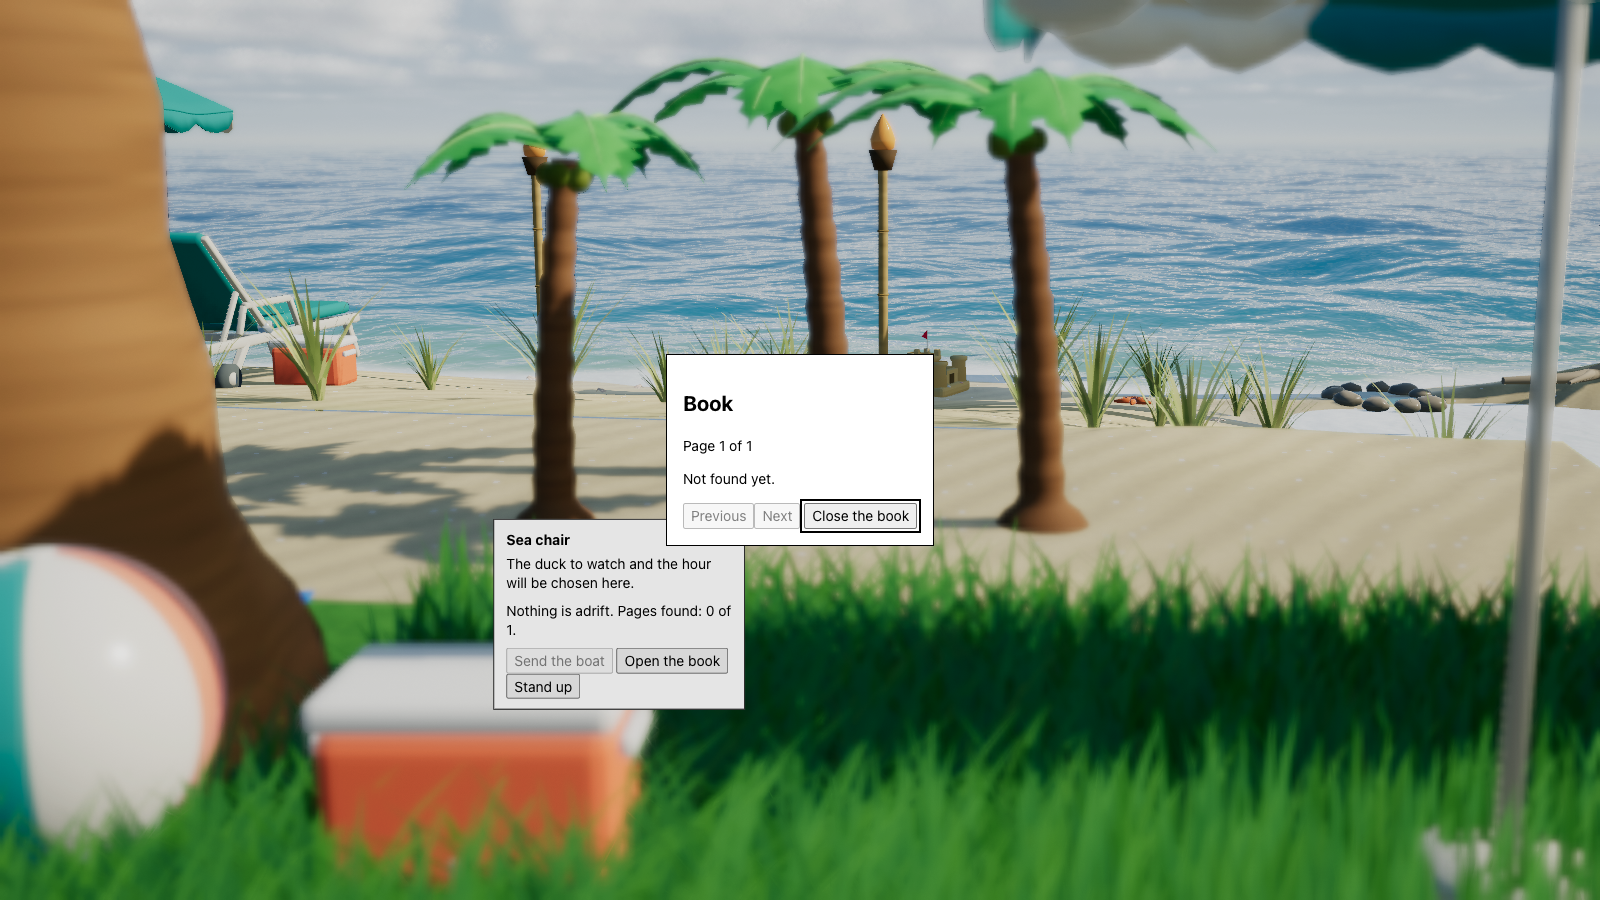
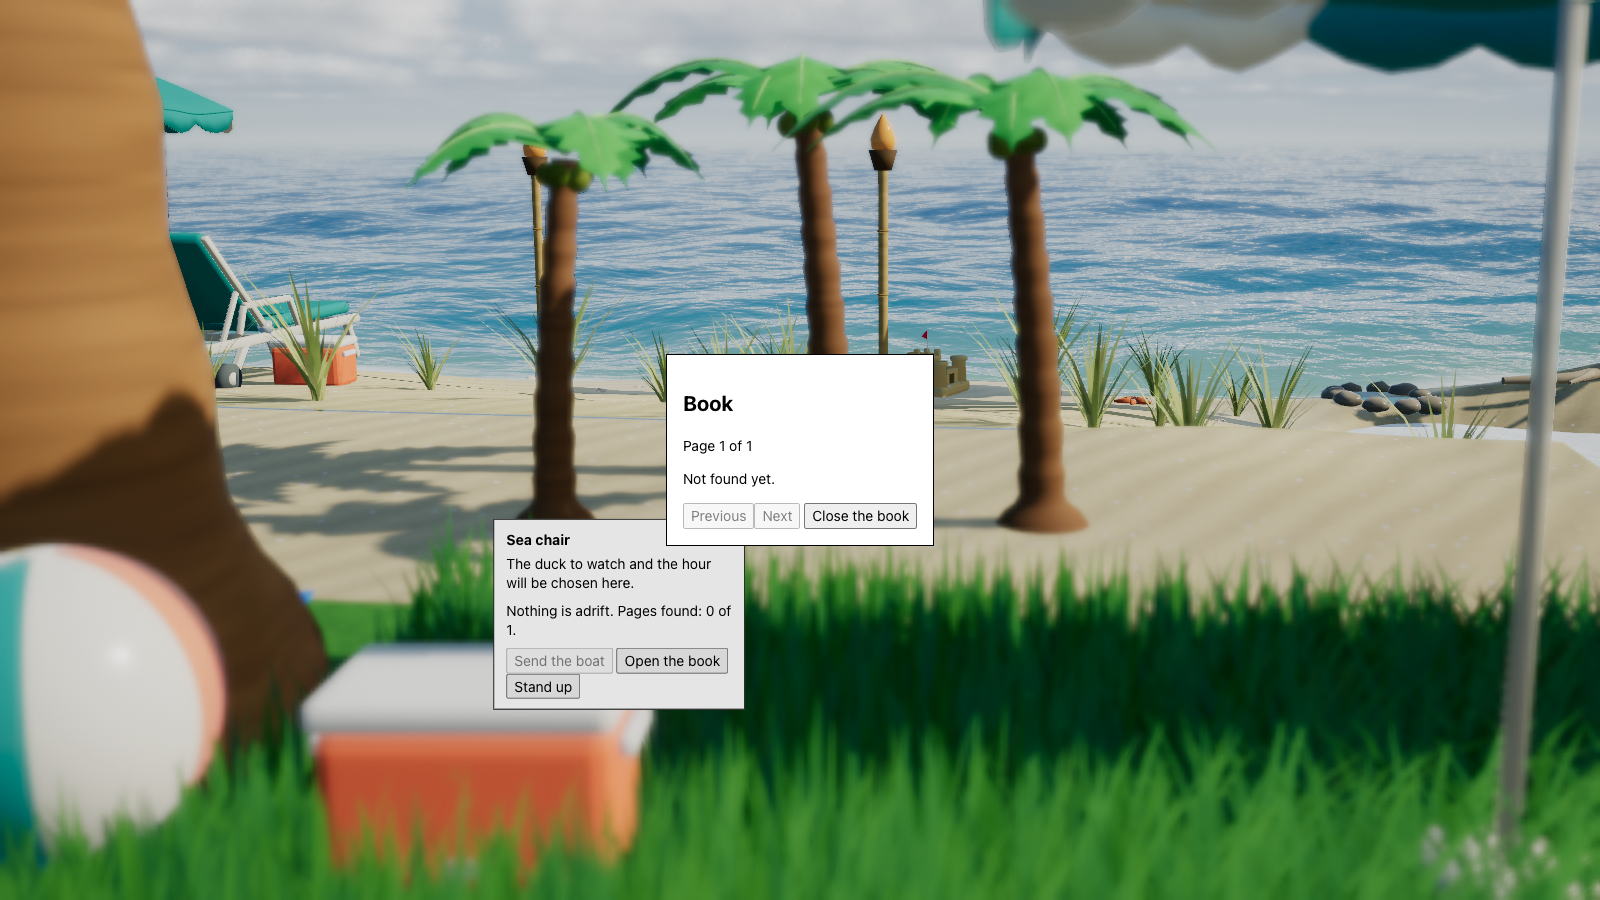
fix(rubber-duck-pool): story 003 review fixes from Sol
The book kept keys from the world only while focus was inside its
dialog. Tab past Close the book drops focus to the page body; W then
reached navigation.js, the player stood up and the book closed (seen on
the old build: the camera moved 0.6). While the book is open it now
takes every keydown in the window's capture phase, wherever focus is;
keyup still goes on, so a key held from the scene is let go. The seat
menu's Escape guard for the open book is no longer needed.

The pool-book drive pressed Enter with a synthetic event, which presses
no button. The probe gains real browser input for --eval scripts:
`await window.__input(steps)` sends keys, clicks and taps through CDP
Input.*. The drive now opens the book with a tap, walks the Tab order,
presses Enter, Space and clicks, checks W and R with focus Tabbed out
of the book, that nothing is written while nothing changes, and that
standing up closes the book. It fails on the old code and passes now,
at desktop and phone sizes.

diff --git a/.claude/skills/verify/drive/pool-book.js b/.claude/skills/verify/drive/pool-book.js
@@ -1,59 +1,87 @@
-// The book, by the player's own controls. Seated, Open the book shows one page per item of the fixed list: from an empty
-// store the first bottle's page is empty, Previous and Next stop at both ends, a world key pressed in the book moves
-// nothing, and Escape closes it and gives focus back to Open the book without standing up. The boat sent for the bottle
-// comes home while the book is open, and the page fills there; it is still filled when the book is opened again. The
-// hook seats the player and steps the world's clock; the presses are the player's. Start from an empty store.
-// window.__shot = 'empty' stops with the empty book open, for its screenshot; otherwise it ends with the filled book open.
+// The book, by the player's own input (the probe's window.__input: the browser's own taps, clicks and keys). Seated, a
+// tap on Open the book opens one page per item of the fixed list: from an empty store the first bottle's page is empty.
+// Tab and Shift+Tab walk Close the book, Next and Previous; Enter, Space and clicks at either end change nothing; nothing
+// is written to the page while nothing changes. W and R pressed in the book, or after a click on its backdrop (focus
+// leaves the book), move nothing. Escape closes only the book and gives focus back to Open the book; Enter and a click
+// open and close it too. The boat sent for the bottle comes home while the book is open and the page fills there.
+// Standing up with the book open closes it and leaves focus on nothing hidden; sitting again, the page is still filled.
+// The hook seats the player and steps the world's clock. Start from an empty store. window.__shot = 'empty' stops with
+// the empty book open, for its screenshot; otherwise it ends with the filled book open.
 (async () => {
   const h = window.__pool, W = h.world, $ = (s) => document.querySelector(s), wait = (ms) => new Promise((r) => setTimeout(r, ms))
   const fail = (m) => { throw new Error(m) }
   const frame = () => new Promise((r) => requestAnimationFrame(() => requestAnimationFrame(r)))
   const run = async (secs, done) => { for (let s = 0; s < secs && !done(); s++) { h.step(120); if (s % 5 === 4) await frame() } await frame(); return done() }
-  const key = (code, k) => document.activeElement.dispatchEvent(new KeyboardEvent('keydown', { code, key: k, bubbles: true, cancelable: true }))
+  const input = async (...steps) => { await window.__input(steps); await frame() }
+  const at = (el) => { const r = el.getBoundingClientRect(); return [r.x + r.width / 2, r.y + r.height / 2] }
   const named = (root, text) => [...root.querySelectorAll('button')].find((b) => b.textContent.trim() === text)
   const dlg = () => [...document.querySelectorAll('dialog')].find((d) => d.querySelector('h1, h2, h3')?.textContent.trim() === 'Book')
   const page = () => dlg().querySelector('[data-state]'), status = () => dlg().querySelector('[role="status"]').textContent.trim()
+  const focus = () => document.activeElement?.textContent.trim() || document.activeElement?.tagName
   const item = () => W.collectibles.list.find((c) => c.id === 'bottle-first')
   const out = []
   await wait(500)
   if (h.book.found('bottle-first')) fail('the book already holds the first bottle: run this from an empty store')
   h.sit(1); await wait(1600)   // the sea chair
-  const opener = $('.seat-ui .seat-book')
+  const opener = $('.seat-ui .seat-book'), panel = $('.seat-ui dialog')
   if (!opener || opener.textContent.trim() !== 'Open the book') fail('the seated menu has no Open the book')
 
-  opener.focus(); opener.click(); await frame()
+  await input({ tap: at(opener) })
   const d = dlg()
-  if (!d?.open || !d.matches(':modal')) fail('Open the book did not open the book as a modal dialog')
-  if (document.activeElement !== named(d, 'Close the book')) fail(`focus is not on Close the book: "${document.activeElement.textContent}"`)
-  const prev = named(d, 'Previous'), next = named(d, 'Next')
+  if (!d?.open || !d.matches(':modal')) fail('a tap on Open the book did not open the book as a modal dialog')
+  const prev = named(d, 'Previous'), next = named(d, 'Next'), close = named(d, 'Close the book')
+  if (document.activeElement !== close) fail(`focus is not on Close the book: "${focus()}"`)
+  await input({ key: 'Tab', shift: true }); const second = document.activeElement
+  await input({ key: 'Tab', shift: true }); const third = document.activeElement
+  if (second !== next || third !== prev) fail(`Shift+Tab from Close the book went to "${second.textContent}", then "${third.textContent}"`)
   if (!/Page 1 of 1/.test(status()) || page().dataset.state !== 'empty' || /First bottle/.test(page().textContent)) fail(`not one empty page: "${status()}", ${page().dataset.state}, "${page().textContent}"`)
   if (prev.getAttribute('aria-disabled') !== 'true' || next.getAttribute('aria-disabled') !== 'true') fail('Previous and Next are not both at an end on the one page')
-  prev.click(); next.click(); next.focus(); key('Enter', 'Enter'); await frame()
-  if (h.bookView.index !== 0 || !/Page 1 of 1/.test(status())) fail(`a press at an end moved the book: ${h.bookView.index}, "${status()}"`)
-  out.push({ by: 'opened', status: status(), state: page().dataset.state, text: page().textContent.trim() })
+  await input({ key: 'Enter' }, { key: 'Tab' }, { key: ' ' }, { click: at(prev) }, { click: at(next) })
+  if (h.bookView.index !== 0 || !/Page 1 of 1/.test(status()) || !d.open) fail(`a press at an end moved or closed the book: ${h.bookView.index}, "${status()}", open ${d.open}`)
+  let writes = 0; const watch = new MutationObserver((r) => { writes += r.length })
+  watch.observe(d, { subtree: true, childList: true, attributes: true, characterData: true })
+  for (let i = 0; i < 10; i++) await frame()
+  watch.disconnect()
+  if (writes) fail(`the open book was written ${writes} times while nothing changed`)
+  out.push({ by: 'tap', status: status(), state: page().dataset.state, text: page().textContent.trim() })
 
-  const eye = h.cam.target.slice()
-  named(d, 'Close the book').focus(); key('KeyW', 'w'); await wait(400)
-  document.activeElement.dispatchEvent(new KeyboardEvent('keyup', { code: 'KeyW', key: 'w', bubbles: true })); await frame()
-  if (h.seating.state.phase !== 'seated' || Math.hypot(...h.cam.target.map((v, i) => v - eye[i])) > 1e-6) fail('W pressed in the book reached the world')
+  const eye = h.cam.target.slice(), still = () => h.seating.state.phase === 'seated' && d.open && Math.hypot(...h.cam.target.map((v, i) => v - eye[i])) < 1e-6
+  await input({ down: 'w' }); await wait(400); await input({ up: 'w' }, { key: 'r' })
+  if (!still()) fail(`W or R pressed in the book reached the world: ${h.seating.state.phase}, open ${d.open}`)
+  await input({ click: [6, 6] }); const after = focus()   // the backdrop
+  await input({ down: 'w' }); await wait(400); await input({ up: 'w' }, { key: 'r' })
+  if (!still()) fail(`after a click on the backdrop (focus "${after}"), W or R reached the world: ${h.seating.state.phase}, open ${d.open}`)
+  close.focus(); await input({ key: 'Tab' }); const past = document.activeElement === document.body ? 'BODY' : focus()   // past the last control, focus leaves the book
+  await input({ down: 'w' }); await wait(400); await input({ up: 'w' }, { key: 'r' })
+  if (!still()) fail(`with focus Tabbed out of the book (${past}), W or R reached the world: ${h.seating.state.phase}, open ${d.open}`)
+  out.push({ by: 'keys in the book', backdropFocus: after, tabbedOut: past, phase: h.seating.state.phase })
   if (window.__shot === 'empty') return JSON.stringify(out)
 
-  key('Escape', 'Escape'); await frame()
-  if (d.open || document.activeElement !== opener || h.seating.state.phase !== 'seated') fail(`Escape did not just close the book: open ${d.open}, focus "${document.activeElement.textContent}", ${h.seating.state.phase}`)
-  out.push({ by: 'Escape', focus: document.activeElement.textContent.trim(), phase: h.seating.state.phase })
+  await input({ key: 'Escape' })
+  if (d.open || document.activeElement !== opener || h.seating.state.phase !== 'seated') fail(`Escape did not just close the book: open ${d.open}, focus "${focus()}", ${h.seating.state.phase}`)
+  await input({ key: 'Enter' }); const openedByEnter = d.open && document.activeElement === close
+  await input({ key: 'Enter' }); const closedByEnter = !d.open && document.activeElement === opener
+  await input({ click: at(opener) }); const openedByClick = d.open
+  await input({ click: at(close) }); const closedByClick = !d.open && document.activeElement === opener
+  if (!openedByEnter || !closedByEnter || !openedByClick || !closedByClick) fail(`Enter or a click did not open and close the book: ${openedByEnter} ${closedByEnter} ${openedByClick} ${closedByClick}`)
+  out.push({ by: 'Escape, Enter, click', focus: focus(), phase: h.seating.state.phase })
 
   if (!(await run(60, () => item().state === 'adrift'))) fail(`no bottle adrift within 60 s of world time: ${item().state}`)
-  $('.seat-ui .seat-send').click(); await frame()
+  await input({ click: at($('.seat-ui .seat-send')) })
   if (W.boat.state === 'moored') fail('Send the boat did not send it')
-  opener.click(); await frame()
-  if (!d.open || page().dataset.state !== 'empty') fail('the book did not open empty while the boat was out')
+  opener.focus(); await input({ key: ' ' })
+  if (!d.open || page().dataset.state !== 'empty') fail('Space on Open the book did not open it empty while the boat was out')
   if (!(await run(600, () => W.boat.state === 'moored' && item().state === 'collected'))) fail(`the boat did not bring the bottle home: ${W.boat.state}, ${item().state}`)
   await frame()
   if (page().dataset.state !== 'filled' || !/First bottle/.test(page().textContent)) fail(`the open book did not fill its page: ${page().dataset.state}, "${page().textContent}"`)
   out.push({ by: 'boat home, book open', status: status(), state: page().dataset.state, text: page().textContent.trim() })
 
-  key('Escape', 'Escape'); await frame(); opener.click(); await frame()
-  if (!d.open || page().dataset.state !== 'filled' || !/Page 1 of 1/.test(status())) fail(`reopened, the page is not filled: ${page().dataset.state}, "${status()}"`)
-  out.push({ by: 'reopened', status: status(), state: page().dataset.state, text: page().textContent.trim() })
+  h.seating.stand('hook'); await frame(); await frame()
+  if (d.open || d.contains(document.activeElement) || panel.contains(document.activeElement)) fail(`standing up left the book open or focus hidden: open ${d.open}, focus "${focus()}"`)
+  out.push({ by: 'stood up', focus: focus() })
+  h.sit(1); await wait(1600)
+  await input({ click: at(opener) })
+  if (!d.open || page().dataset.state !== 'filled' || !/Page 1 of 1/.test(status())) fail(`sitting again, the page is not filled: ${page().dataset.state}, "${status()}"`)
+  out.push({ by: 'sat again', status: status(), state: page().dataset.state, text: page().textContent.trim() })
   return JSON.stringify(out)
 })()

diff --git a/projects/rubber-duck-pool/src/pool/book-view.js b/projects/rubber-duck-pool/src/pool/book-view.js
@@ -47,7 +47,10 @@ export function createBookView({ root, book, signal }) {
   on(prev, 'click', () => { if (index > 0) { index--; render(book.pages); } });
   on(next, 'click', () => { const pages = book.pages; if (index < pages.length - 1) { index++; render(pages); } });
   on(closeButton, 'click', close);
-  on(dialog, 'keydown', e => { e.stopPropagation(); if (e.key === 'Escape') { e.preventDefault(); close(); } });
+  // While the book is open every key is the book's, wherever focus is (a click on the backdrop leaves it on the page): none
+  // reaches the world's shortcuts or the seat's Escape. Native Tab, Enter and Space still act; keyup goes on, so a key
+  // held from the scene is let go.
+  window.addEventListener('keydown', e => { if (!dialog.open) return; e.stopPropagation(); if (e.key === 'Escape') { e.preventDefault(); close(); } }, { signal, capture: true });
   on(dialog, 'cancel', e => { e.preventDefault(); e.stopPropagation(); close(); });
   for (const event of ['pointerdown', 'pointerup', 'pointermove', 'pointercancel', 'touchstart', 'touchmove', 'touchend', 'touchcancel', 'mousedown', 'mouseup', 'click', 'wheel']) {
     on(dialog, event, e => e.stopPropagation());

diff --git a/projects/rubber-duck-pool/src/pool/seat-menu.js b/projects/rubber-duck-pool/src/pool/seat-menu.js
@@ -46,8 +46,7 @@ export function createSeatMenu({ root, seats, seating, toPx, fallback, boat, boo
   // The world's shortcuts (navigation.js WASD and R, index.js M) listen on window: a key pressed on our controls stays
   // here. Escape goes on, to stand wherever focus is. Only keydown: a key held from the scene must still be let go.
   on(ui, 'keydown', (e) => { if (e.key !== 'Escape') e.stopPropagation(); });
-  // while the book is open, Escape is the book's (it closes the book), wherever focus is
-  on(window, 'keydown', (e) => { if (e.key === 'Escape' && !bookView.isOpen && seating.stand('escape')) e.preventDefault(); });
+  on(window, 'keydown', (e) => { if (e.key === 'Escape' && seating.stand('escape')) e.preventDefault(); });   // the book keeps its own keys (book-view.js)
   root.append(ui);
   signal.addEventListener('abort', () => ui.remove());
 

diff --git a/projects/rubber-duck-pool/docs/improvements.md b/projects/rubber-duck-pool/docs/improvements.md
@@ -207,6 +207,7 @@ jelly의 14번(Pool Jelly)으로 만들었다가 기능이 많아져 따로 뺀 
 - [더함] 사용자가 "도감은 어디서 볼 수 있어?"라고 물어 스토리 3을 진행. 앉은 메뉴에 "Open the book" 단추(Send the boat와 Stand up 사이). 누르면 모달 창 "Book": 찾을 것마다 한 쪽, 찾기 전은 "Not found yet."(제목 숨김, `book-view.js` `SHOW_EMPTY_TITLE`), 찾은 뒤는 "First bottle / Found.". Previous/Next는 끝에서 멈춤(aria-disabled), 쪽 위치는 읽어 주는 영역에 "Page 1 of 1". Esc와 "Close the book"이 책만 닫고 포커스를 Open the book으로 돌림(일어나지 않음). 책이 열린 동안 키·포인터가 장면에 닿지 않음. 열린 채로 배가 병을 싣고 돌아오면 그 자리에서 채워짐.
 - [나눔] Terra(`gpt-6.1-terra`, xhigh): `book-view.js`(쪽 모델과 창), `book-view.test.mjs`, `logbook.test.mjs`의 새로고침 사례. Claude: 메뉴 단추, `index.js` 연결(로그북을 메뉴보다 먼저 만들도록 옮김), 훅 `bookView`, `pool-book` 드라이브.
 - [확인] `pool-book` 드라이브(빈 쪽, 양 끝, 책 안의 W가 장면에 안 닿음, Esc, 열린 채 채워짐, 다시 열어도 채워짐) exit 0, 스크린샷 `production/qa/evidence/story-003-book-pages/book-empty.png`, `book-filled.png`. 다른 풀 드라이브 11개 통과.
+- [고침, Sol 검토] Sol(`gpt-6.1-sol`, medium)이 BLOCKING 하나, SHOULD FIX 둘을 냄. (1) 책이 키를 자기 창 안에서만 막아, 포커스가 책 밖으로 나가면 W/R이 장면에 닿음. Sol이 든 "배경 클릭"은 Chrome에서 포커스를 책 창에 두어 재현되지 않았지만, 마지막 단추에서 Tab을 누르면 포커스가 페이지(body)로 나가고 그때 W를 누르면 일어서며 책이 닫히는 것을 옛 빌드에서 재현(카메라 0.6 이동). 책이 열린 동안 window의 keydown을 캡처 단계에서 모두 책이 가져가도록 고침(keyup은 통과). 시트 메뉴의 Escape 예외는 필요 없어져 뺌. (2) 드라이브의 Enter가 합성 이벤트라 단추를 누르지 않음. 프로브에 진짜 입력(`window.__input`: 키, 클릭, 터치)을 더하고 드라이브를 그것으로 다시 씀(탭으로 열기, Shift+Tab 순서, Enter·Space·클릭, 책 밖으로 Tab한 뒤의 W/R, 일어설 때 책이 닫힘, 아무것도 안 바뀔 때 DOM 쓰기 없음). 새 드라이브는 옛 코드에서 실패하고 새 코드에서 통과, 폰 크기에서도 통과. (3) 노드 테스트가 쪽 모델만 봄. 노드에 DOM이 없어 새 의존성 없이 드라이브에서 확인(위).
 
 ## 소리를 모두 끔 (10-29)
 - [뺌] 사용자가 "그냥 모든 소리를 지워줘. 계속 거슬리던 소리가 파도 소리와 바람 소리였네"라고 해서 페이지가 소리를 아예 켜지 않습니다. 첫 터치로 소리를 깨우던 것과 M 키 켜기/끄기를 뺐습니다(`index.js`). 소리 엔진과 `SFX` 표는 나중의 재조정을 위해 남겼고 훅(`sound`)과 검사만 씁니다.

diff --git a/.claude/skills/verify/SKILL.md b/.claude/skills/verify/SKILL.md
@@ -32,7 +32,7 @@ node packages/dev-kit/probe.mjs --serve projects/<slug>/dist --webgpu --wait 300
 
 ## Drive
 
-Scripts in `drive/` run inside the page through `--eval`. They use the real controls (buttons by id, pointer events at the screen point of a world position from the hook's `toPx`) and the hook only to read state. Each throws when the proof fails, so the probe exits 1.
+Scripts in `drive/` run inside the page through `--eval`. They use the real controls (buttons by id, pointer events at the screen point of a world position from the hook's `toPx`) and the hook only to read state. Each throws when the proof fails, so the probe exits 1. Where the browser's own input matters (Tab moving focus, Enter or Space pressing a button, a touch), `await window.__input([{ key: 'Tab', shift: true }, { down: 'w' }, { up: 'w' }, { click: [x, y] }, { tap: [x, y] }])` sends it through the probe: a page's own `dispatchEvent` presses no button.
 
 | Script | Prepend | Proves |
 |---|---|---|
@@ -41,6 +41,8 @@ Scripts in `drive/` run inside the page through `--eval`. They use the real cont
 | `drive/pool-ducks.js` | | the hook's `add(5)` brings five ducks; a picked duck takes the chosen design and hat |
 | `drive/pool-props.js` | | clicking the radio where it is drawn turns it through its stations and off; clicking the hourglass turns it |
 | `drive/pool-seats.js` | | each deck chair, by a click where it is drawn and by the hook's `sit(i)`, seats the camera at its eye |
+| `drive/pool-first-bottle.js` | | from an empty store, the seated menu's Send the boat fetches the bottle adrift, and its one page is recorded when the boat is home |
+| `drive/pool-book.js` | `window.__shot='empty';` stops with the empty book open | by real taps, clicks and keys: Open the book, the empty and the filled page, both ends, Tab order, no key reaching the world (also with focus Tabbed out of the book), Escape, standing up with the book open |
 | `drive/pool-time.js` | | the hook's `clock(false)` stops the clock, and `hour(22)` takes it to night |
 | `drive/pool-flyer.js` | | a flyer (the hook's `addFlyer()`) flies and in the end goes out to sea, and is counted |
 | `drive/pool-names.js` | | the hook's `names(true)` puts each duck's name over it, and `names(false)` takes them away |

diff --git a/packages/dev-kit/README.md b/packages/dev-kit/README.md
@@ -6,7 +6,8 @@ Tools for checking a project in a real browser without a human at the screen.
   errors, warnings and the script's result, and can save a screenshot:
   `node packages/dev-kit/probe.mjs --url <url> --w 1280 --h 720 --wait 9000 --shot out.png --eval "(async()=>{…})()"`
   `--serve <dir> [--path '#11']` serves a built folder (a project's `dist/`) for this run only,
-  `--webgpu` turns WebGPU on (the Mac's GPU, headless), `--mobile` is a 390x844 touch phone. It exits
+  `--webgpu` turns WebGPU on (the Mac's GPU, headless), `--mobile` is a 390x844 touch phone. The script can
+  `await window.__input(steps)` for the browser's own keys, clicks and taps (probe.mjs lists the steps). It exits
   1 when the page logs an error or throws, or the `--eval` script throws. The repo's `verify` skill
   (`.claude/skills/verify/`) drives the pages with it.
 
